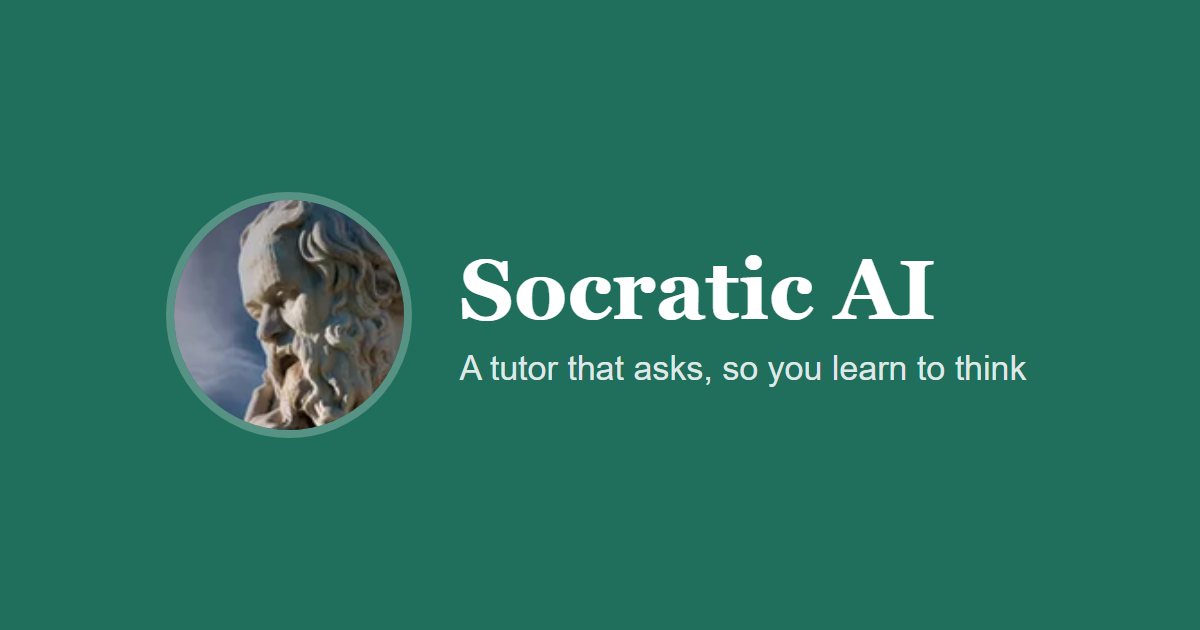
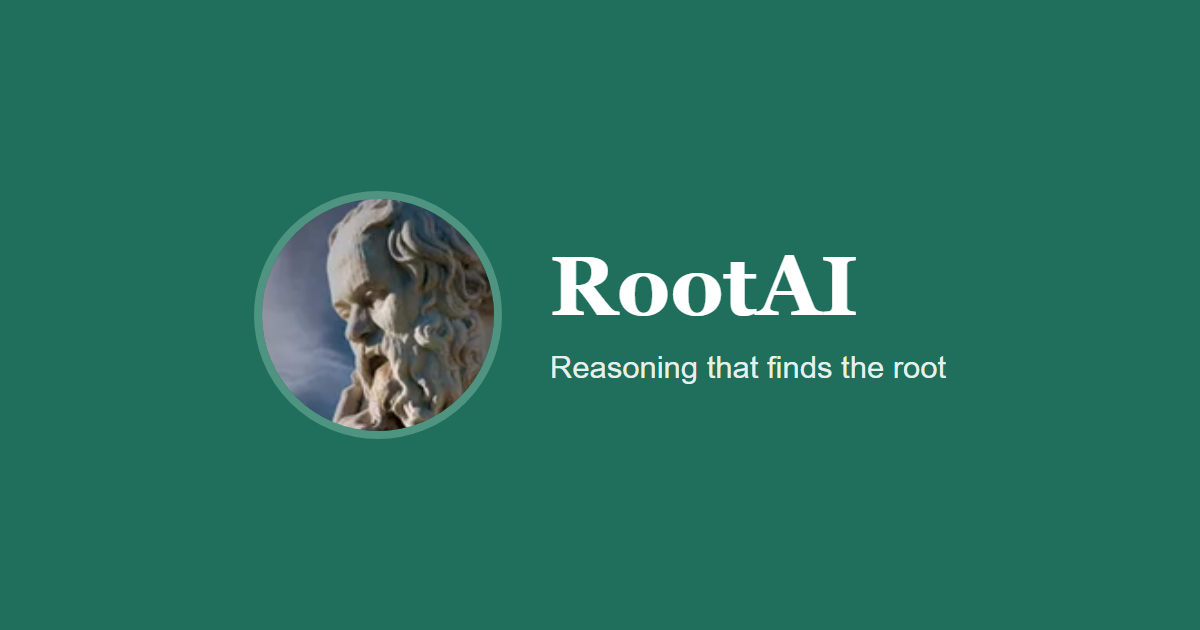
Rename the app to RootAI (title, sidebar, manifest, link card)

Changed region(s): [[0.1233, 0.3016, 0.8633, 0.6937]]

diff --git a/static/index.html b/static/index.html
@@ -3,15 +3,15 @@
 <head>
 <meta charset="utf-8">
 <meta name="viewport" content="width=device-width, initial-scale=1">
-<title>Socratic AI</title>
-<meta name="description" content="A Socratic tutor that asks questions, step by step, to build your critical thinking on any topic.">
+<title>RootAI</title>
+<meta name="description" content="Reasoning that finds the root. A Socratic tutor that builds critical thinking on any topic, and an agent that finds why a machine failed.">
 <meta name="theme-color" content="#1f6f5c">
 <link rel="icon" href="/static/img/favicon-32.png" sizes="32x32" type="image/png">
 <link rel="apple-touch-icon" href="/static/img/apple-touch-icon.png">
 <link rel="manifest" href="/static/manifest.webmanifest">
 <meta property="og:type" content="website">
-<meta property="og:title" content="Socratic AI">
-<meta property="og:description" content="A tutor that asks, so you learn to think. Practise critical thinking on any topic.">
+<meta property="og:title" content="RootAI">
+<meta property="og:description" content="Reasoning that finds the root. Practise critical thinking on any topic, and find why a machine failed.">
 <meta property="og:image" content="/static/img/og-card.png">
 <meta name="twitter:card" content="summary_large_image">
 <link rel="preconnect" href="https://fonts.googleapis.com">
@@ -1067,13 +1067,13 @@
 <div id="homeView" class="view">
   <div class="nav-menu">  <!-- phones only -->
     <button class="icon-btn" id="navOpen" title="Menu" aria-label="Open the menu"><svg><use href="#i-side"/></svg></button>
-    <img class="brand-mark" src="/static/img/socrates.png" alt=""><b>Socratic AI</b>
+    <img class="brand-mark" src="/static/img/socrates.png" alt=""><b>RootAI</b>
   </div>
   <div class="nav-backdrop" id="navBackdrop"></div>
   <button class="icon-btn nav-unfold" id="navUnfold" title="Open the sidebar" aria-label="Open the sidebar"><svg><use href="#i-side"/></svg></button>
   <nav class="rail nav" aria-label="Main">
     <div class="sn-head">
-      <span class="sn-name"><img class="brand-mark" src="/static/img/socrates.png" alt="">Socratic AI</span>
+      <span class="sn-name"><img class="brand-mark" src="/static/img/socrates.png" alt="">RootAI</span>
       <button class="icon-btn sn-fold" id="navFold" title="Fold the sidebar" aria-label="Fold the sidebar"><svg><use href="#i-side"/></svg></button>
     </div>
     <button class="sn-item sn-new" id="askBtn" title="New chat"><svg><use href="#i-plus"/></svg><span>New chat</span></button>
@@ -1425,7 +1425,7 @@ function startTourOnce(){
   if(!tourSeen('ask') && !$('askMain').classList.contains('hidden') && $('askMain').classList.contains('empty')) setTimeout(() => startTour('ask'), 300);
 }
 $('askBtn').addEventListener('click', () => { askReset(); showPage('ask'); });
-// the "Socratic AI" name (sidebar and phone bar) also starts a new chat
+// the "RootAI" name (sidebar and phone bar) also starts a new chat
 document.querySelectorAll('.sn-name, .nav-menu b').forEach(el => el.addEventListener('click', () => $('askBtn').click()));
 $('navOpen').addEventListener('click', () => $('homeView').classList.add('nav-open'));
 $('navBackdrop').addEventListener('click', () => $('homeView').classList.remove('nav-open'));

diff --git a/app/diagnose.py b/app/diagnose.py
@@ -169,7 +169,7 @@ def machine_list():
 
 # ---------- the Diagnosis agent: a plain explanation of the chain ----------
 
-SYSTEM = """You are the Diagnosis agent for Socratic AI. A milling machine has failed, and plain code has already found the most likely fault with a Bayesian network. You only explain the reasoning to an engineer in training, in at most """ + str(WORDS) + """ words. Use only the facts given and change no number.
+SYSTEM = """You are the Diagnosis agent for RootAI. A milling machine has failed, and plain code has already found the most likely fault with a Bayesian network. You only explain the reasoning to an engineer in training, in at most """ + str(WORDS) + """ words. Use only the facts given and change no number.
 
 Write 3 or 4 sentences in this order.
 1. Abductive. Which reading in CHECKS points to FAULT, so FAULT is the best explanation at CHANCE. Name the reading and its number.

diff --git a/app/main.py b/app/main.py
@@ -26,7 +26,7 @@ from .llm_client import LLMError
 from .content import CONCEPTS, LEVELS, QUANT_TOPIC, STANDARD_TIPS, STANDARDS, case_of
 
 log = logging.getLogger(__name__)
-app = FastAPI(title="Socratic AI")
+app = FastAPI(title="RootAI")
 
 # Live sessions are kept in memory and also saved after every turn (see
 # storage.py: files on this computer, a free database online), so a learner

diff --git a/CLAUDE.md b/CLAUDE.md
@@ -60,7 +60,7 @@ A Socratic tutor that develops critical thinking, measures it against a framewor
 - **Meeting 2 (19 October 2026):** read `docs/supervisor/meeting2-notes.md` before any Goal 1 work. Goal 1 (mid November 2026): attainment in reasoning type, knowledge type and quality, with new Reasoning and Explainer agents. All 6 steps of section 8 are done.
 - **Meeting 3 (24 November 2026):** read `docs/supervisor/meeting3-notes.md` before planning new work (public version; full notes with partner names and the startup and career parts are in the git-ignored `meeting3-notes-full.md`, copy in Drive). Reasoning narrowed to inductive, deductive and abductive. Main paper and product, an Ex (hazardous area) equipment inspection use case with an oil and gas partner (knowledge graph plus reasoning for diagnosis, target end of January 2027). Backup paper, a teaching study with a control group (January 2027). First tasks, a review of knowledge graph generation algorithms (how nodes and edges are chosen) for the thesis, and probabilistic graphical models (Koller and Friedman). Azure tokens coming through UTP.
 - **Meeting 3 progress (25 November 2026).** Done: knowledge graph review (thesis FYP1 section 2.8, tracked changes by "Claude", draft `docs/thesis/kg-generation-review.md`), Koller and Friedman reading (`docs/supervisor/pgm-reading.md`), task 8 open-dataset network (`docs/supervisor/pgm-ai4i.md`, `eval/pgm_ai4i.py`), task 4 graph storage (`docs/supervisor/kg-storage.md`). A message to Dr Ho was drafted (not yet confirmed sent). Waiting on his reply for task 3 (refine the graph prompt) and task 5 (standard relation classes). Next, plan the January 2027 teaching study (Eusoff picks the cohort), then check the Reasoning agent against a human marker.
-- **27 November 2026.** Startup track update is in the git-ignored `meeting3-notes-full.md`. Built the **Diagnosis page** (`app/diagnose.py`, `/api/diagnose`, sidebar "Diagnosis"), a first working version of the industrial use case on the AI4I data. The network ranks faults and picks the next check, the rule and fix follow, and the Diagnosis agent only explains the result (guarded, with a fallback). Its 11 demo machines are all found. Drafts for Dr Ho are task 5 relation classes (`docs/supervisor/relation-classes.md`, 11 classes), the teaching study plan (`docs/evaluation/teaching-study-plan.md`) and a demo script (`docs/supervisor/demo-dr-ho.md`). The human marker kit already exists (`docs/evaluation/assessor-marking-guide.md`, `eval/marks_template.csv`, `eval/compare_marks.py`), so Eusoff only needs to do the marking. Next, demo to Dr Ho, then pick a new name for the app.
+- **27 November 2026.** Startup track update is in the git-ignored `meeting3-notes-full.md`. Built the **Diagnosis page** (`app/diagnose.py`, `/api/diagnose`, sidebar "Diagnosis"), a first working version of the industrial use case on the AI4I data. The network ranks faults and picks the next check, the rule and fix follow, and the Diagnosis agent only explains the result (guarded, with a fallback). Its 11 demo machines are all found. Drafts for Dr Ho are task 5 relation classes (`docs/supervisor/relation-classes.md`, 11 classes), the teaching study plan (`docs/evaluation/teaching-study-plan.md`) and a demo script (`docs/supervisor/demo-dr-ho.md`). The human marker kit already exists (`docs/evaluation/assessor-marking-guide.md`, `eval/marks_template.csv`, `eval/compare_marks.py`), so Eusoff only needs to do the marking. Same day, the app was renamed **RootAI** (page title, sidebar, phone bar, manifest, link card; Eusoff's choice). The repo, the Render service name and the thesis keep "Socratic AI", and the agent prompts still say Socratic AI on purpose (changing them could shift their replies). Before registering the name, check MyIPO and SSM (a Korean "RootAI" does senior knowledge capture, and "Ruth Ai Systems" in Selangor sounds alike). Next, demo to Dr Ho.
 
 ## Architecture
 

diff --git a/docs/supervisor/demo-dr-ho.md b/docs/supervisor/demo-dr-ho.md
@@ -59,7 +59,7 @@ Say "For the backup paper, we planned a pretest and posttest study with matched 
 2. Are the eleven relation classes right, and is anything missing that inspection engineers use?
 3. Which cohort and topic for the teaching study, and how does ethics approval work at UTP?
 4. Is the Azure access ready, so we can test the agents on it?
-5. The tool now does more than Socratic tutoring. Should we give it a new name? (We have a short list.)
+5. The tool now does more than Socratic tutoring, so we renamed the app RootAI, meaning reasoning that finds the root. Is that name fine with you? (The thesis keeps its title.)
 
 ## Things to say honestly if asked
 
